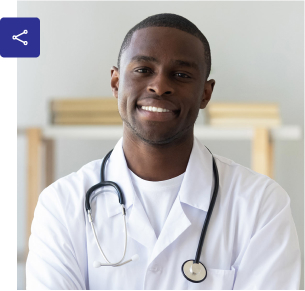
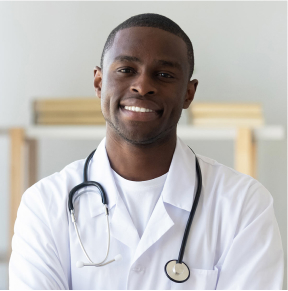
done experts section

diff --git a/index.html b/index.html
@@ -206,11 +206,11 @@
 
         <section class="clients">
             <div class="clients__body">
-                <h2 class="clients__pre-title h3">Our dear clients</h2>
-                <div class="clients__title">
+                <h2 class="clients__pre-title h3 pre-title">Our dear clients</h2>
+                <div class="clients__title title">
                     <p>What People Say</p>
                 </div>
-                <div class="clients__post-title">
+                <div class="clients__post-title post-title">
                     <p>In sea viderer delicatissimi, urbanitas sententiae quo blandit maiorum euripidis.</p>
                 </div>
                 <div class="clients__avatar container">
@@ -279,6 +279,48 @@
                     <div class="direction__img-wrapper">
                         <img class="direction__img" src="./img/girl-smile.jpg" alt="patient at the dentist's appointment" width="533" height="366" loading="lazy">
                     </div>
+                </div>
+            </div>
+        </section>
+
+        <section class="experts">
+            <div class="experts__body container">
+                <div class="experts__description">
+                   <h2 class="experts__pre-title h3 pre-title">the allsmiles team</h2>
+                   <p class="experts__title title">Meet Our Experts</p>
+                   <p class="experts__post-title post-title">An delicata inimicus sea, vis equidem oporteat conclusion mundi et. Nec malis dolor fabellas ex, eu nec falli iuvaret. Per elitr eloquentiam an esse.</p> 
+                </div>
+                <div class="experts__avatars container">                    
+                    <ul class="experts__list">
+                        <li class="experts__item">
+                            <div class="experts__img--wrapper">
+                               <img class="experts__img" src="./img/experts/1.jpg" alt="expert" width="288" height="290" loading="lazy"> 
+                            </div>                            
+                            <p class="experts__avatars--name title">Howard Holmes</p>
+                            <p class="experts__avatars--title pre-title">estetic dentist</p>
+                        </li>
+                        <li class="experts__item">
+                            <div class="experts__img--wrapper">
+                                <img class="experts__img" src="./img/experts/2.jpg" alt="expert" width="288" height="290" loading="lazy">
+                            </div>                            
+                            <p class="experts__avatars--name title">Ella Thompson</p>
+                            <p class="experts__avatars--title pre-title">dental technician</p>
+                        </li>
+                        <li class="experts__item">
+                            <div class="experts__img--wrapper">
+                                <img class="experts__img" src="./img/experts/3.jpg" alt="expert" width="288" height="290" loading="lazy">
+                            </div>                            
+                            <p class="experts__avatars--name title">Vincent Cooper</p>
+                            <p class="experts__avatars--title pre-title">estetic dentist</p>
+                        </li>
+                        <li class="experts__item">
+                            <div class="experts__img--wrapper">
+                                <img class="experts__img" src="./img/experts/4.jpg" alt="expert" width="288" height="290" loading="lazy">
+                            </div>                            
+                            <p class="experts__avatars--name title">Danielle Bryant</p>
+                            <p class="experts__avatars--title pre-title">dental technician</p>
+                        </li>
+                    </ul>                    
                 </div>
             </div>
         </section>

diff --git a/styles/styles.css b/styles/styles.css
@@ -276,6 +276,31 @@ h4, .h4 {
   font-size: clamp(18px, 1.3888888889vw, 20px);
 }
 
+.pre-title {
+  color: var(--color-red);
+  font-size: 11px;
+  font-weight: 600;
+  text-transform: uppercase;
+  letter-spacing: 0.1rem;
+}
+
+.title {
+  color: var(--color-dark-blue);
+  font-weight: 600;
+  font-family: var(--font-family-accent);
+  font-size: clamp(16px, 3vw, 42px);
+}
+
+.post-title {
+  color: var(--color-gray);
+  font-size: 15px;
+}
+@media (max-width: 480px) {
+  .post-title {
+    text-align: center;
+  }
+}
+
 .header-intro {
   height: 40px;
   background-color: var(--color-blue);
@@ -970,28 +995,8 @@ h4, .h4 {
   justify-content: center;
   align-items: center;
 }
-.clients__pre-title {
-  color: var(--color-red);
-  font-size: 11px;
-  font-weight: 600;
-  text-transform: uppercase;
-  letter-spacing: 0.1rem;
-}
 .clients__title {
-  color: var(--color-dark-blue);
-  font-weight: 600;
-  font-family: var(--font-family-accent);
-  font-size: clamp(16px, 3vw, 42px);
   margin-bottom: 10px;
-}
-.clients__post-title {
-  color: var(--color-gray);
-  font-size: 15px;
-}
-@media (max-width: 480px) {
-  .clients__post-title {
-    text-align: center;
-  }
 }
 .clients__avatar {
   margin-top: 50px;
@@ -1279,6 +1284,77 @@ h4, .h4 {
     align-items: center;
     text-align: center;
   }
+}
+
+.experts {
+  margin-block: 100px;
+}
+.experts__body {
+  display: flex;
+  flex-direction: column;
+  row-gap: 40px;
+  justify-content: center;
+  align-items: center;
+}
+.experts__description {
+  display: flex;
+  flex-direction: column;
+  row-gap: 10px;
+  align-items: center;
+  justify-content: center;
+}
+.experts__post-title {
+  width: 60%;
+  text-align: center;
+}
+.experts__avatars--name {
+  font-size: clamp(16px, 1.6vw, 19px);
+}
+.experts__avatars--title {
+  font-size: clamp(10px, 1vw, 13px);
+}
+.experts__list {
+  display: flex;
+  column-gap: 30px;
+  justify-content: center;
+  align-items: center;
+}
+@media (max-width: 1023px) {
+  .experts__list {
+    flex-wrap: wrap;
+    row-gap: 30px;
+  }
+}
+.experts__item {
+  display: flex;
+  flex-direction: column;
+  row-gap: 5px;
+  align-items: center;
+  justify-content: center;
+  position: relative;
+}
+.experts__item::before {
+  content: "";
+  position: absolute;
+  width: 40px;
+  aspect-ratio: 1;
+  background-color: var(--color-dark-blue);
+  border-radius: 4px;
+  top: 10%;
+  left: 0;
+  translate: -50% -50%;
+  background: url("../../img/icons/share.svg") center/contain no-repeat var(--color-dark-blue);
+}
+.experts__img {
+  margin-bottom: 10px;
+  height: auto;
+}
+.experts__img--wrapper {
+  display: flex;
+  flex-shrink: 0;
+  align-items: center;
+  justify-content: center;
+  width: 100%;
 }
 
 /*# sourceMappingURL=styles.css.map */

diff --git a/styles/blocks/_experts.scss b/styles/blocks/_experts.scss
@@ -1,0 +1,85 @@
+.experts {
+    margin-block: 100px;
+
+
+    &__body {
+        display: flex;
+        flex-direction: column;
+        row-gap: 40px;
+        justify-content: center;
+        align-items: center;
+    }
+
+    &__description {
+        display: flex;
+        flex-direction: column;
+        row-gap: 10px;
+        align-items: center;
+        justify-content: center;
+    }
+
+    &__post-title {
+        width: 60%;
+        text-align: center;
+    }
+
+    &__avatars {
+        &--name {
+            font-size: clamp(16px, 1.6vw, 19px);
+        }
+
+        &--title {
+            font-size: clamp(10px, 1vw, 13px);
+        }
+    }
+
+    &__list {
+        display: flex;
+        column-gap: 30px;
+        justify-content: center;
+        align-items: center;
+
+        @include tablet {
+            flex-wrap: wrap;
+            row-gap: 30px;
+        }
+    }
+
+    &__item {
+        display: flex;
+        flex-direction: column;
+        row-gap: 5px;
+        align-items: center;
+        justify-content: center;
+        position: relative;
+        
+
+        &::before {
+            content: "";
+            position: absolute;
+            width: 40px;
+            aspect-ratio: 1;
+            background-color: var(--color-dark-blue);
+            border-radius: 4px;
+            top: 10%;
+            left: 0;
+            translate: -50% -50%;
+            background: url("../../img/icons/share.svg") center/contain no-repeat var(--color-dark-blue);
+        }
+    }
+
+    &__img {
+        margin-bottom: 10px;
+        height: auto;
+
+        &--wrapper {
+            display: flex;
+            flex-shrink: 0;
+            align-items: center;
+            justify-content: center;
+            width: 100%;
+        }
+    }
+
+    
+}

diff --git a/styles/blocks/_clients.scss b/styles/blocks/_clients.scss
@@ -9,29 +9,8 @@
         align-items: center;
     }
 
-    &__pre-title {
-        color: var(--color-red);
-        font-size: 11px;
-        font-weight: 600;
-        text-transform: uppercase;
-        letter-spacing: 0.1rem;
-    }
-
     &__title {
-        color: var(--color-dark-blue);
-        font-weight: 600;
-        font-family: var(--font-family-accent);
-        font-size: clamp(16px, 3vw, 42px);
         margin-bottom: 10px;
-    }
-
-    &__post-title {
-        color: var(--color-gray);
-        font-size: 15px;
-
-        @include mobile-s {
-            text-align: center;
-        }
     }
 
     &__avatar {

diff --git a/styles/_globals.scss b/styles/_globals.scss
@@ -37,3 +37,28 @@ h3, .h3 {
 h4, .h4 {
     @include fluid-text (20, 18);
 }
+
+
+.pre-title {
+    color: var(--color-red);
+    font-size: 11px;
+    font-weight: 600;
+    text-transform: uppercase;
+    letter-spacing: 0.1rem;
+}
+
+.title {
+    color: var(--color-dark-blue);
+    font-weight: 600;
+    font-family: var(--font-family-accent);
+    font-size: clamp(16px, 3vw, 42px);
+}
+
+.post-title {
+    color: var(--color-gray);
+    font-size: 15px;
+
+    @include mobile-s {
+        text-align: center;
+    }
+}

diff --git a/styles/styles.scss b/styles/styles.scss
@@ -18,5 +18,6 @@
 'blocks/video',
 'blocks/clients',
 'blocks/direction',
-'blocks/discount'
+'blocks/discount',
+'blocks/experts'
 ;
